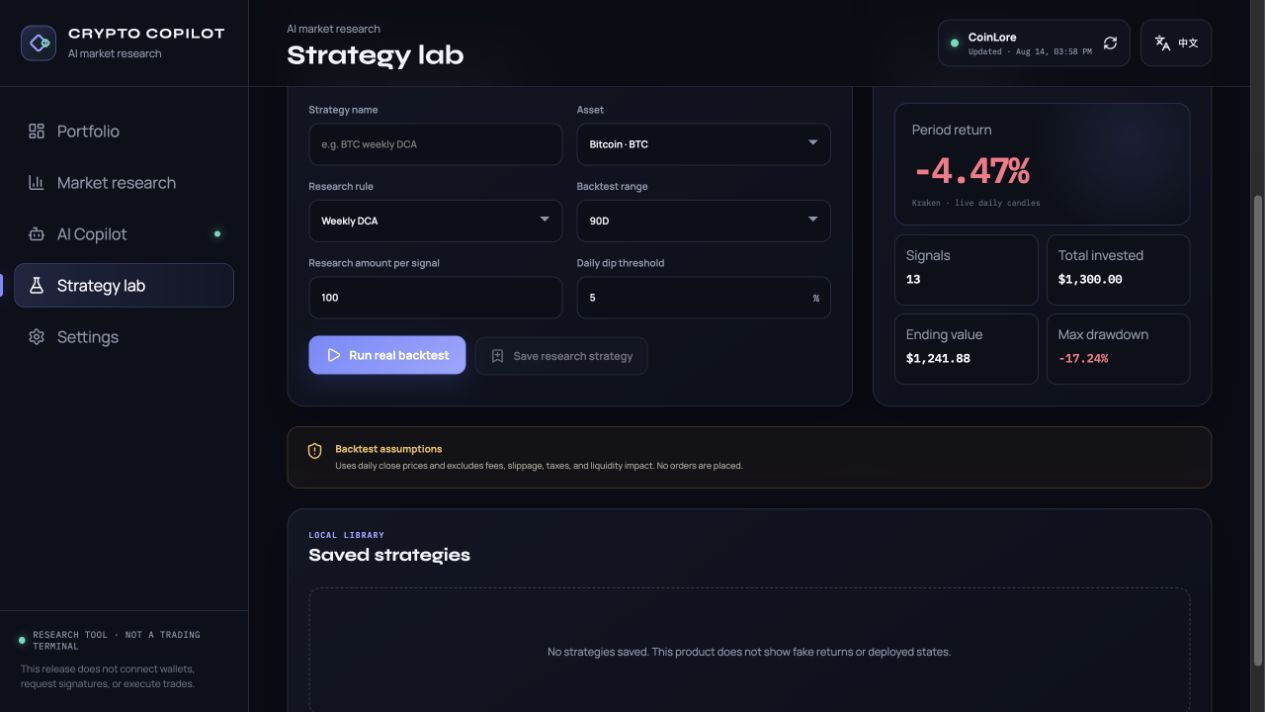
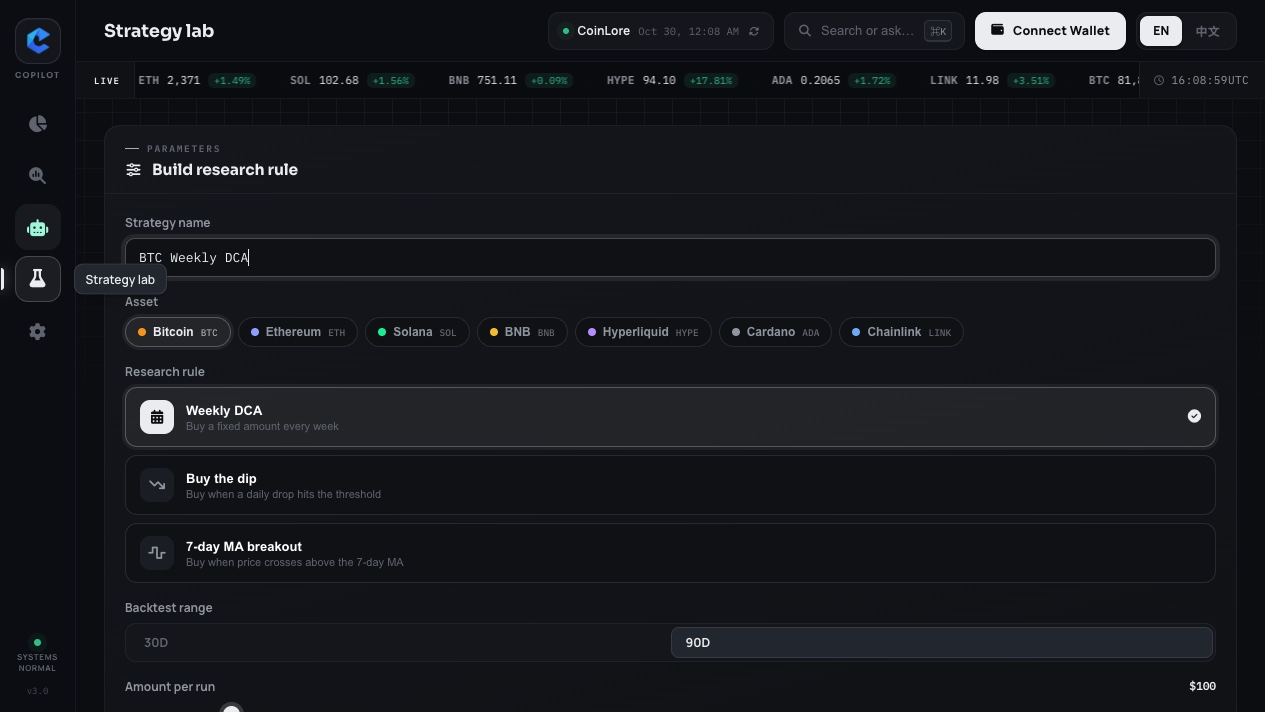
cryptocopilot: refresh live captures after v3 redesign rollout
- Replace 4 live-product screenshots (market, detail, AI, backtest) with
  captures from the redesigned build now serving crpto-copilot.pages.dev
- Backtest capture keeps the negative 90D BTC weekly-DCA result (-9.63%)
- Drop stale 'Kraken daily candles' wording from backtest captions

diff --git a/cryptocopilot.html b/cryptocopilot.html
@@ -89,7 +89,7 @@
         <div class="feature-copy"><span class="kicker">WORKERS AI · GROUNDED</span><h3 data-i18n="ai.title">The AI is useful because its context is constrained.</h3><p data-i18n="ai.text">Each request sends only the question and the necessary market or portfolio summary to Cloudflare Workers AI. The interface shows what the model can see before the user asks.</p><ul class="feature-list"><li data-i18n="ai.li1">Answers cite the current 24H and 7D values available in the product.</li><li data-i18n="ai.li2">Portfolio analysis remains disabled until real holdings exist.</li><li data-i18n="ai.li3">There is no scripted answer or silent mock response when the model is unavailable.</li></ul></div>
       </article>
       <article class="feature">
-        <figure class="shot"><div class="shot-frame"><img src="images/crypto-copilot-live-backtest.jpg" width="1265" height="712" loading="lazy" alt="Crypto Copilot strategy lab showing a real 90-day Bitcoin weekly DCA backtest with a negative period return"></div><figcaption data-i18n="caption.backtest">Live capture · BTC weekly DCA · 90-day Kraken daily candles</figcaption></figure>
+        <figure class="shot"><div class="shot-frame"><img src="images/crypto-copilot-live-backtest.jpg" width="1265" height="712" loading="lazy" alt="Crypto Copilot strategy lab showing a real 90-day Bitcoin weekly DCA backtest with a negative period return"></div><figcaption data-i18n="caption.backtest">Live capture · BTC weekly DCA · 90-day daily candles</figcaption></figure>
         <div class="feature-copy"><span class="kicker">REAL PRICE HISTORY</span><h3 data-i18n="backtest.title">A losing result is better evidence than a fake success state.</h3><p data-i18n="backtest.text">The strategy lab tests weekly DCA, daily-dip, and seven-day moving-average breakout rules against real Kraken daily candles.</p><ul class="feature-list"><li data-i18n="backtest.li1">30 or 90-day windows with explicit parameters and signal counts.</li><li data-i18n="backtest.li2">Period return, invested capital, ending value, and maximum drawdown.</li><li data-i18n="backtest.li3">Assumptions state that fees, slippage, taxes, and liquidity impact are excluded.</li></ul><p class="callout" data-i18n="backtest.callout">The screenshot intentionally keeps the negative result. The product reports what happened in the selected period; it does not manufacture proof.</p></div>
       </article>
     </section>
@@ -115,13 +115,13 @@
   <script>
     const translations={
       en:{
-        'nav.back':'← Back to projects','hero.eyebrow':'LIVE PRODUCT · AI × MARKET RESEARCH','hero.lede':'A bilingual AI market-research workspace grounded in live data—not a trading terminal.','hero.asideTitle':'The rebuild changed the product’s promise.','hero.asideText':'The early concept simulated wallet connections and automated strategies. The shipped product replaces those claims with real market data, explicit AI context, reproducible backtests, and a hard boundary around trade execution.','hero.live':'Open live product ↗','hero.source':'View source ↗','meta.roleLabel':'Role','meta.role':'Product design & full-stack development','meta.typeLabel':'Type','meta.type':'Live AI fintech product','meta.yearLabel':'Launch','meta.platformLabel':'Platform','caption.market':'Live product capture · Market overview · Data changes with the market','caption.ai':'Live Workers AI response grounded in the current BTC and ETH data','caption.backtest':'Live capture · BTC weekly DCA · 90-day Kraken daily candles',
+        'nav.back':'← Back to projects','hero.eyebrow':'LIVE PRODUCT · AI × MARKET RESEARCH','hero.lede':'A bilingual AI market-research workspace grounded in live data—not a trading terminal.','hero.asideTitle':'The rebuild changed the product’s promise.','hero.asideText':'The early concept simulated wallet connections and automated strategies. The shipped product replaces those claims with real market data, explicit AI context, reproducible backtests, and a hard boundary around trade execution.','hero.live':'Open live product ↗','hero.source':'View source ↗','meta.roleLabel':'Role','meta.role':'Product design & full-stack development','meta.typeLabel':'Type','meta.type':'Live AI fintech product','meta.yearLabel':'Launch','meta.platformLabel':'Platform','caption.market':'Live product capture · Market overview · Data changes with the market','caption.ai':'Live Workers AI response grounded in the current BTC and ETH data','caption.backtest':'Live capture · BTC weekly DCA · 90-day daily candles',
         'problem.index':'01 · THE RESET','problem.title':'From a persuasive concept to a product that can defend every number.','problem.intro':'The first version looked like an automated trading platform, but its portfolio, returns, and wallet state were demonstrations. Shipping it meant narrowing the scope and making the remaining loop real.','problem.quote':'If an AI finance product cannot tell you where a number came from—or what it does not know—the interface is only performing confidence.','problem.p1Title':'Evidence before advice','problem.p1Text':'Market and portfolio answers use the exact context visible in the workspace.','problem.p2Title':'Research before execution','problem.p2Text':'The product helps inspect, compare, and test; it never connects a wallet or places an order.','problem.p3Title':'Unknown stays unknown','problem.p3Text':'No invented news, silent mock fallback, fake returns, or “deployed” strategy states.','metrics.assets':'tracked market assets','metrics.sources':'real data pipelines','metrics.rules':'reproducible backtest rules','metrics.languages':'English + Chinese UI',
         'product.index':'02 · THE PRODUCT LOOP','product.title':'Observe the market. Ask with context. Test an idea. Keep the boundary visible.','product.intro':'Four connected workspaces turn a price feed into a research routine without pretending to be an exchange.','market.title':'A market surface built for comparison, not spectacle.','market.text':'CoinLore powers the current overview while historical daily candles support 7, 30, and 90-day charts. Normalized comparison makes two different price scales legible.','market.li1':'Search and filter seven supported assets with visible source freshness.','market.li2':'Watchlists, saved views, asset groups, notes, and snapshots persist in the browser.','market.li3':'Portfolio value only appears after the user enters a real quantity.','ai.title':'The AI is useful because its context is constrained.','ai.text':'Each request sends only the question and the necessary market or portfolio summary to Cloudflare Workers AI. The interface shows what the model can see before the user asks.','ai.li1':'Answers cite the current 24H and 7D values available in the product.','ai.li2':'Portfolio analysis remains disabled until real holdings exist.','ai.li3':'There is no scripted answer or silent mock response when the model is unavailable.','backtest.title':'A losing result is better evidence than a fake success state.','backtest.text':'The strategy lab tests weekly DCA, daily-dip, and seven-day moving-average breakout rules against real Kraken daily candles.','backtest.li1':'30 or 90-day windows with explicit parameters and signal counts.','backtest.li2':'Period return, invested capital, ending value, and maximum drawdown.','backtest.li3':'Assumptions state that fees, slippage, taxes, and liquidity impact are excluded.','backtest.callout':'The screenshot intentionally keeps the negative result. The product reports what happened in the selected period; it does not manufacture proof.',
         'boundary.index':'03 · TRUST BOUNDARY','boundary.title':'The safest interaction is the one the product clearly does not offer.','boundary.does':'What it does','boundary.not':'What it never does','boundary.does1':'Reads current market data and historical daily candles','boundary.does2':'Calculates user-entered portfolio values locally','boundary.does3':'Runs deterministic research backtests','boundary.does4':'Sends bounded context to Workers AI for analysis','boundary.not1':'Connect a wallet or request a signature','boundary.not2':'Store private keys or seed phrases','boundary.not3':'Place, schedule, or automate trades','boundary.not4':'Present research results as financial advice','system.index':'04 · SYSTEM','system.title':'A small architecture with explicit seams between data, AI, and local state.','system.node1':'Current overview and daily OHLC history.','system.node2':'Validation, normalization, caching, and safe upstream fallbacks.','system.node3':'Market, portfolio, AI, strategy, and bilingual UI.','system.node4':'Bounded AI requests; holdings and research remain local.','learn.index':'05 · WHAT CHANGED','learn.quote':'Trust did not come from adding more AI. It came from removing claims the product could not yet support.','learn.l1Title':'Scope is a design material','learn.l1Text':'Removing wallet and execution flows made the research loop clearer and the privacy story defensible.','learn.l2Title':'Grounding needs an interface','learn.l2Text':'Showing source freshness and “what the AI can see” turns a backend constraint into user confidence.','learn.l3Title':'Failure must remain legible','learn.l3Text':'Negative backtests, missing context, and provider errors stay visible instead of becoming polished fiction.','footer.note':'Crypto Copilot is a research and education tool, not financial advice or a trading terminal.'
       },
       zh:{
-        'nav.back':'← 返回作品','hero.eyebrow':'已上线产品 · AI × 市场研究','hero.lede':'一个基于真实数据的双语 AI 市场研究工作台——不是交易终端。','hero.asideTitle':'这次重做，改变的是产品承诺。','hero.asideText':'早期概念模拟了钱包连接和自动策略。真正上线后，这些无法兑现的表达被替换为真实行情、明确的 AI 上下文、可复现回测，以及不碰交易执行的硬边界。','hero.live':'打开正式产品 ↗','hero.source':'查看源代码 ↗','meta.roleLabel':'角色','meta.role':'产品设计与全栈开发','meta.typeLabel':'类型','meta.type':'已上线 AI 金融科技产品','meta.yearLabel':'上线','meta.platformLabel':'平台','caption.market':'正式产品实拍 · 市场总览 · 数据会随行情变化','caption.ai':'基于当前 BTC 与 ETH 真实数据的 Workers AI 回答','caption.backtest':'正式产品实拍 · BTC 周定投 · Kraken 90 天日线',
+        'nav.back':'← 返回作品','hero.eyebrow':'已上线产品 · AI × 市场研究','hero.lede':'一个基于真实数据的双语 AI 市场研究工作台——不是交易终端。','hero.asideTitle':'这次重做，改变的是产品承诺。','hero.asideText':'早期概念模拟了钱包连接和自动策略。真正上线后，这些无法兑现的表达被替换为真实行情、明确的 AI 上下文、可复现回测，以及不碰交易执行的硬边界。','hero.live':'打开正式产品 ↗','hero.source':'查看源代码 ↗','meta.roleLabel':'角色','meta.role':'产品设计与全栈开发','meta.typeLabel':'类型','meta.type':'已上线 AI 金融科技产品','meta.yearLabel':'上线','meta.platformLabel':'平台','caption.market':'正式产品实拍 · 市场总览 · 数据会随行情变化','caption.ai':'基于当前 BTC 与 ETH 真实数据的 Workers AI 回答','caption.backtest':'正式产品实拍 · BTC 周定投 · 90 天日线',
         'problem.index':'01 · 推倒重来','problem.title':'从一个看起来可信的概念，变成一个每个数字都经得起追问的产品。','problem.intro':'第一版像自动交易平台，但投资组合、收益和钱包状态都只是演示。真正上线意味着收窄范围，把留下来的产品闭环全部做真。','problem.quote':'如果一个 AI 金融产品说不清数字从哪里来，也不肯承认自己不知道什么，界面只是在表演信心。','problem.p1Title':'先证据，后判断','problem.p1Text':'市场和组合回答只使用工作台里用户看得见的上下文。','problem.p2Title':'先研究，不执行','problem.p2Text':'产品帮助查看、比较和验证，不连接钱包，也不下单。','problem.p3Title':'不知道就保持不知道','problem.p3Text':'不编新闻，不静默切换假数据，不展示假收益和假“已部署”状态。','metrics.assets':'个追踪资产','metrics.sources':'条真实数据管线','metrics.rules':'种可复现回测规则','metrics.languages':'中英双语界面',
         'product.index':'02 · 产品闭环','product.title':'观察市场，带着上下文提问，验证一个想法，并始终看见边界。','product.intro':'四个彼此连接的工作区，把价格流变成研究习惯，但不假装自己是交易所。','market.title':'市场界面服务于比较，而不是制造刺激。','market.text':'CoinLore 提供当前总览，历史日线支持 7、30 和 90 天图表。归一化比较让两个不同价格尺度的资产可以直接对照。','market.li1':'搜索并筛选 7 个支持资产，同时明确显示数据源新鲜度。','market.li2':'观察列表、保存视图、资产分组、笔记和快照都保留在当前浏览器。','market.li3':'只有用户输入真实持仓数量后，组合市值才会出现。','ai.title':'AI 有用，恰恰因为它的上下文受到约束。','ai.text':'每次请求只把问题和必要的市场或组合摘要发送给 Cloudflare Workers AI。用户提问前，界面先说清楚模型能看见什么。','ai.li1':'回答使用产品当前可见的 24H 与 7D 数据。','ai.li2':'没有真实持仓时，组合分析保持禁用。','ai.li3':'模型不可用时，不用脚本答案或静默假回复兜底。','backtest.title':'一次亏损结果，比一张虚假的成功状态更有价值。','backtest.text':'策略实验室使用 Kraken 真实日线，验证每周定投、日内跌幅买入和七日均线突破三种研究规则。','backtest.li1':'30 或 90 天窗口，参数与信号次数明确可见。','backtest.li2':'展示区间收益、投入本金、期末价值与最大回撤。','backtest.li3':'清楚说明不包含手续费、滑点、税费和流动性影响。','backtest.callout':'截图故意保留了负收益。产品只报告所选区间发生了什么，不制造证明。',
         'boundary.index':'03 · 信任边界','boundary.title':'最安全的交互，是产品明确不提供的那个交互。','boundary.does':'它会做什么','boundary.not':'它绝不会做什么','boundary.does1':'读取当前行情与历史日线','boundary.does2':'在本地计算用户输入的持仓价值','boundary.does3':'运行确定性的研究回测','boundary.does4':'把受限上下文发送给 Workers AI 分析','boundary.not1':'连接钱包或请求签名','boundary.not2':'存储私钥或助记词','boundary.not3':'下单、预约或自动执行交易','boundary.not4':'把研究结果包装成投资建议','system.index':'04 · 系统','system.title':'一个小而明确的架构，把数据、AI 与本地状态分开。','system.node1':'当前市场总览与日线历史。','system.node2':'校验、归一化、缓存与安全的上游回退。','system.node3':'市场、组合、AI、策略和双语界面。','system.node4':'受限 AI 请求；持仓与研究数据留在本地。','learn.index':'05 · 真正改变的事','learn.quote':'信任不是靠加入更多 AI 得到的，而是靠删掉产品暂时无法兑现的承诺。','learn.l1Title':'范围本身就是设计材料','learn.l1Text':'去掉钱包和执行流程，让研究闭环更清晰，隐私故事也更站得住。','learn.l2Title':'Grounding 需要被设计出来','learn.l2Text':'把数据新鲜度和“AI 能看见什么”展示出来，后端约束才会变成用户信心。','learn.l3Title':'失败必须可见','learn.l3Text':'负收益、上下文缺失和供应商错误都保持可见，不被润色成漂亮的虚构。','footer.note':'Crypto Copilot 是研究与教育工具，不构成投资建议，也不是交易终端。'
